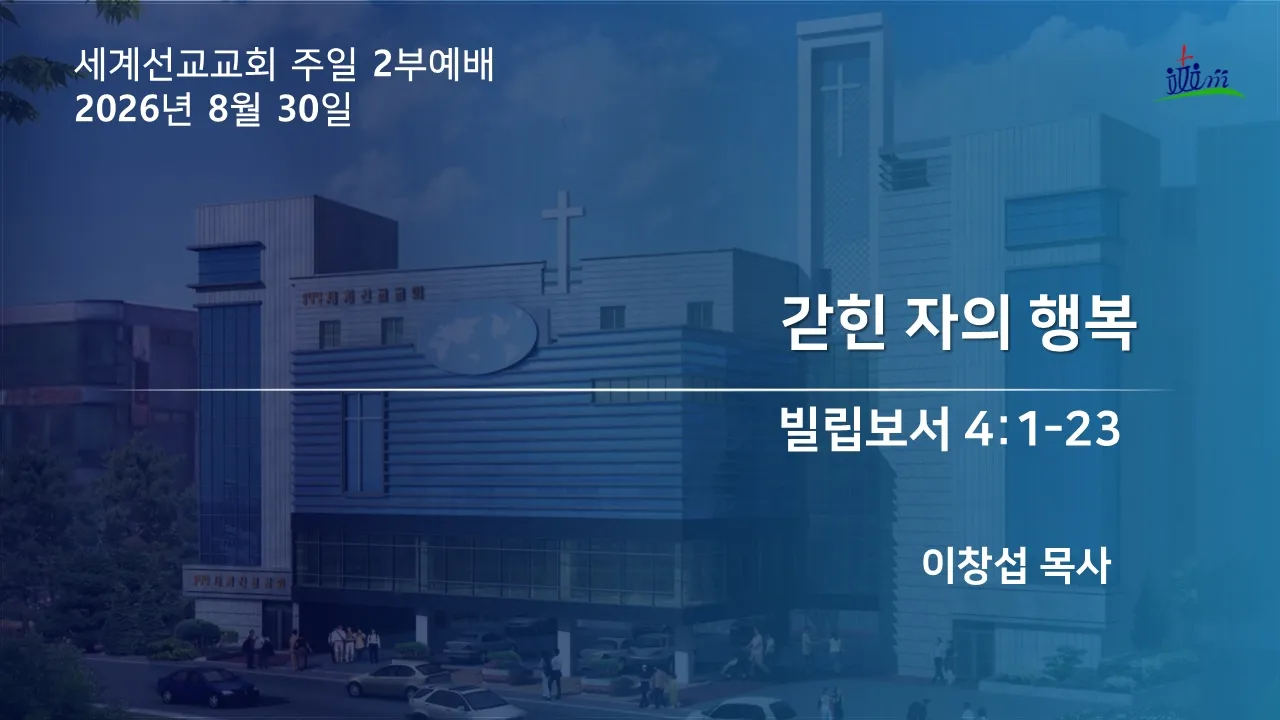
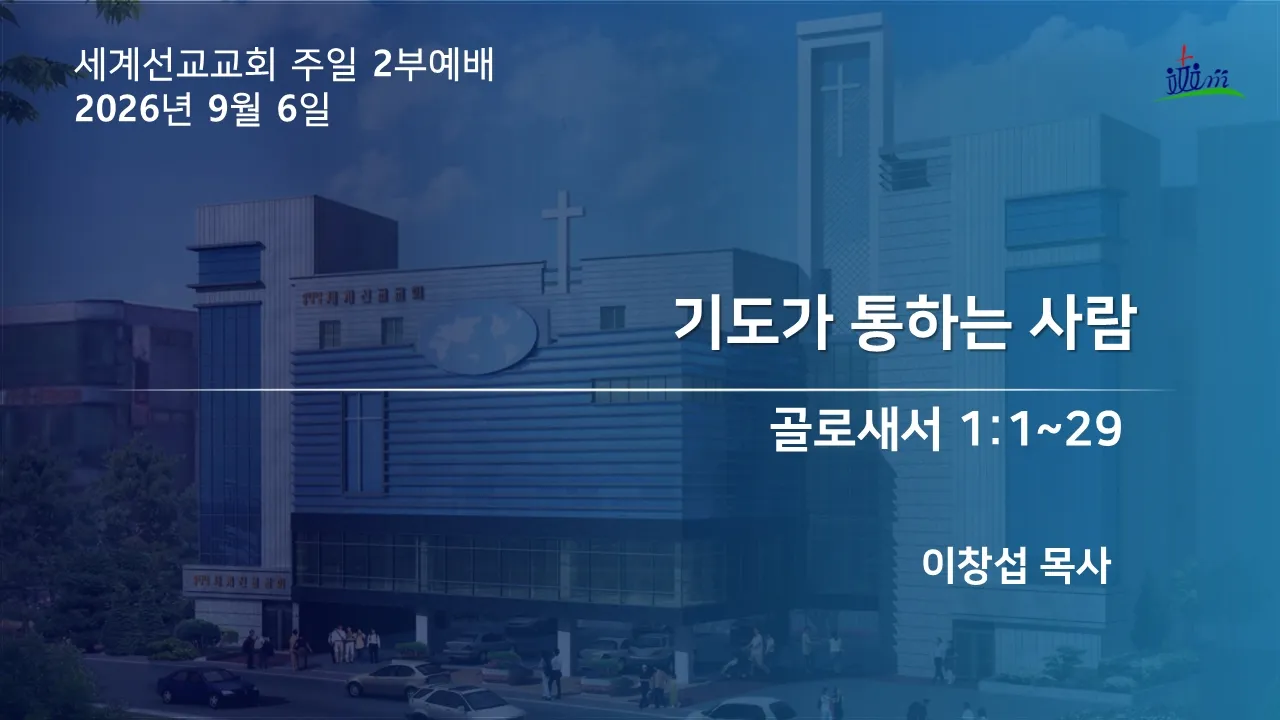
Keep the sermon archive aligned with the official channel
Constraint: Publish only official metadata that parses without warnings

Confidence: high

Scope-risk: narrow

Directive: Leave incomplete or ambiguous videos for manual review

Tested: npm run youtube:test

Not-tested: Live rendering is handled by the deploy workflow

diff --git a/site/src/content/sermons/2026-09-06-aLdTK-3aiSw.md b/site/src/content/sermons/2026-09-06-aLdTK-3aiSw.md
@@ -1,0 +1,10 @@
+---
+title: "기도가 통하는 사람"
+date: 2026-09-06
+scripture: "골로새서 1:1–29"
+scriptureShort: "골 1:1–29"
+preacher: "이창섭 목사"
+youtube: "https://www.youtube.com/watch?v=aLdTK-3aiSw"
+---
+
+주일예배 말씀입니다.
